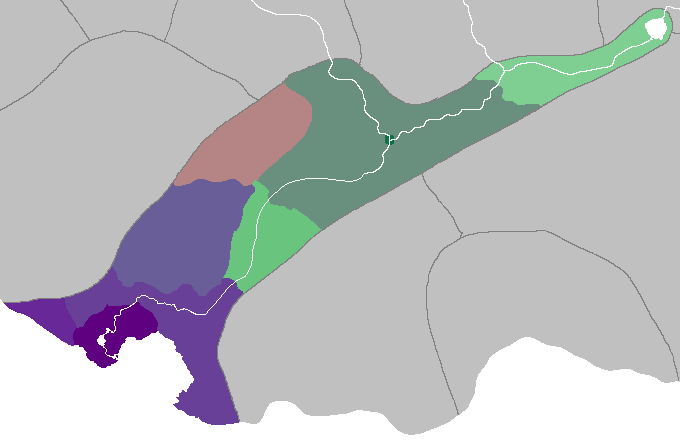
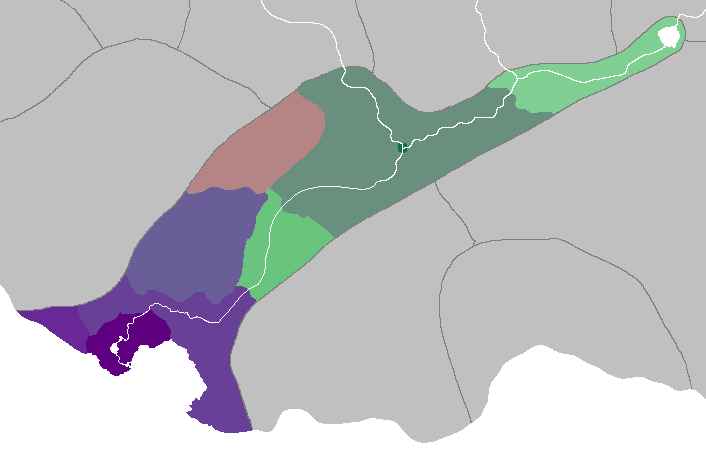
tweaked map res

diff --git a/namei/eremoran.js b/namei/eremoran.js
@@ -998,15 +998,15 @@ const dialectMap = {
 	coords: [
 		// ...range(0, 100, 10).map(x => [x, x]) // fake debug coords
 		// SOUTHERN DIALECTS
-		[15, 75], // Capital
+		[16, 75], // Capital
 		[7, 68], // Kurramut
-		[26, 70], // LRS
+		[27, 70], // LRS
 		[23, 50], // HRS
 		// NORTHERN DIALECTS
-		[37, 50], // LN
+		[39, 51], // LN
 		[50, 35], // UN
-		[55, 28], // Deftei
-		[80, 12], // Abbakarm
+		[55, 29], // Deftei
+		[80, 13], // Abbakarm
 		[93, 5], // Lake
 		// WEST DIALECT
 		[35, 30], // ZE
